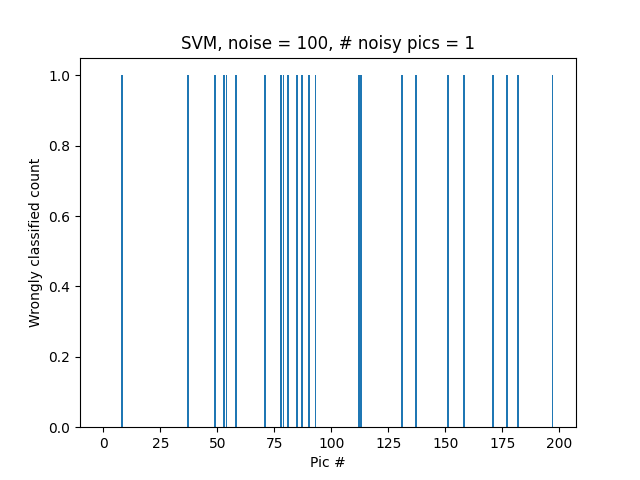
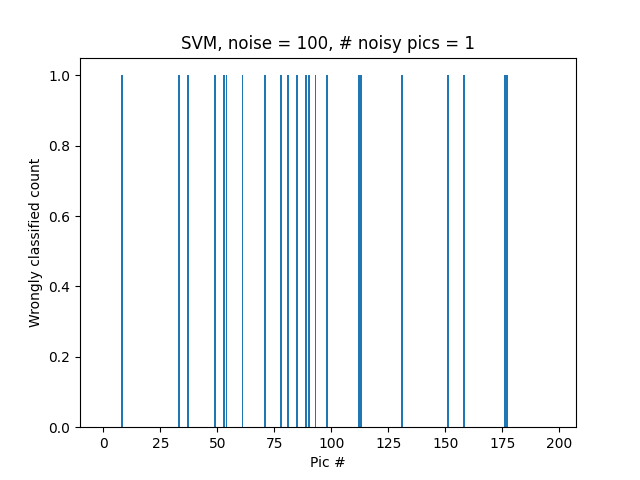
asd

Changed region(s): [[0.7812, 0.1562, 0.8125, 0.875], [0.4688, 0.1562, 0.5, 0.875]]

diff --git a/2a/main.py b/2a/main.py
@@ -209,17 +209,17 @@ def main(num_pics, noise_level, num_runs, plot_list):
     '''
 
     plt.figure()
-    pic1 = np.array(data.iloc[37])
-    plt.title(f'label = {get_label(np.array(label.iloc[37]))}')
+    pic1 = np.array(data.iloc[21])
+    plt.title(f'label = {get_label(np.array(label.iloc[21]))}')
     plt.imshow(pic1.reshape(64, 64).T)
-
+    plt.show()
 
     return plot_list
 
 if __name__ == '__main__':
     num_pic_list = [10, 40, 100]
     noise_level_list = [100, 255]
-    num_runs = 1
+    num_runs = 100
     plot_list = np.zeros([3, len(num_pic_list)])
     for noise in noise_level_list:
         for num_pic in num_pic_list:
